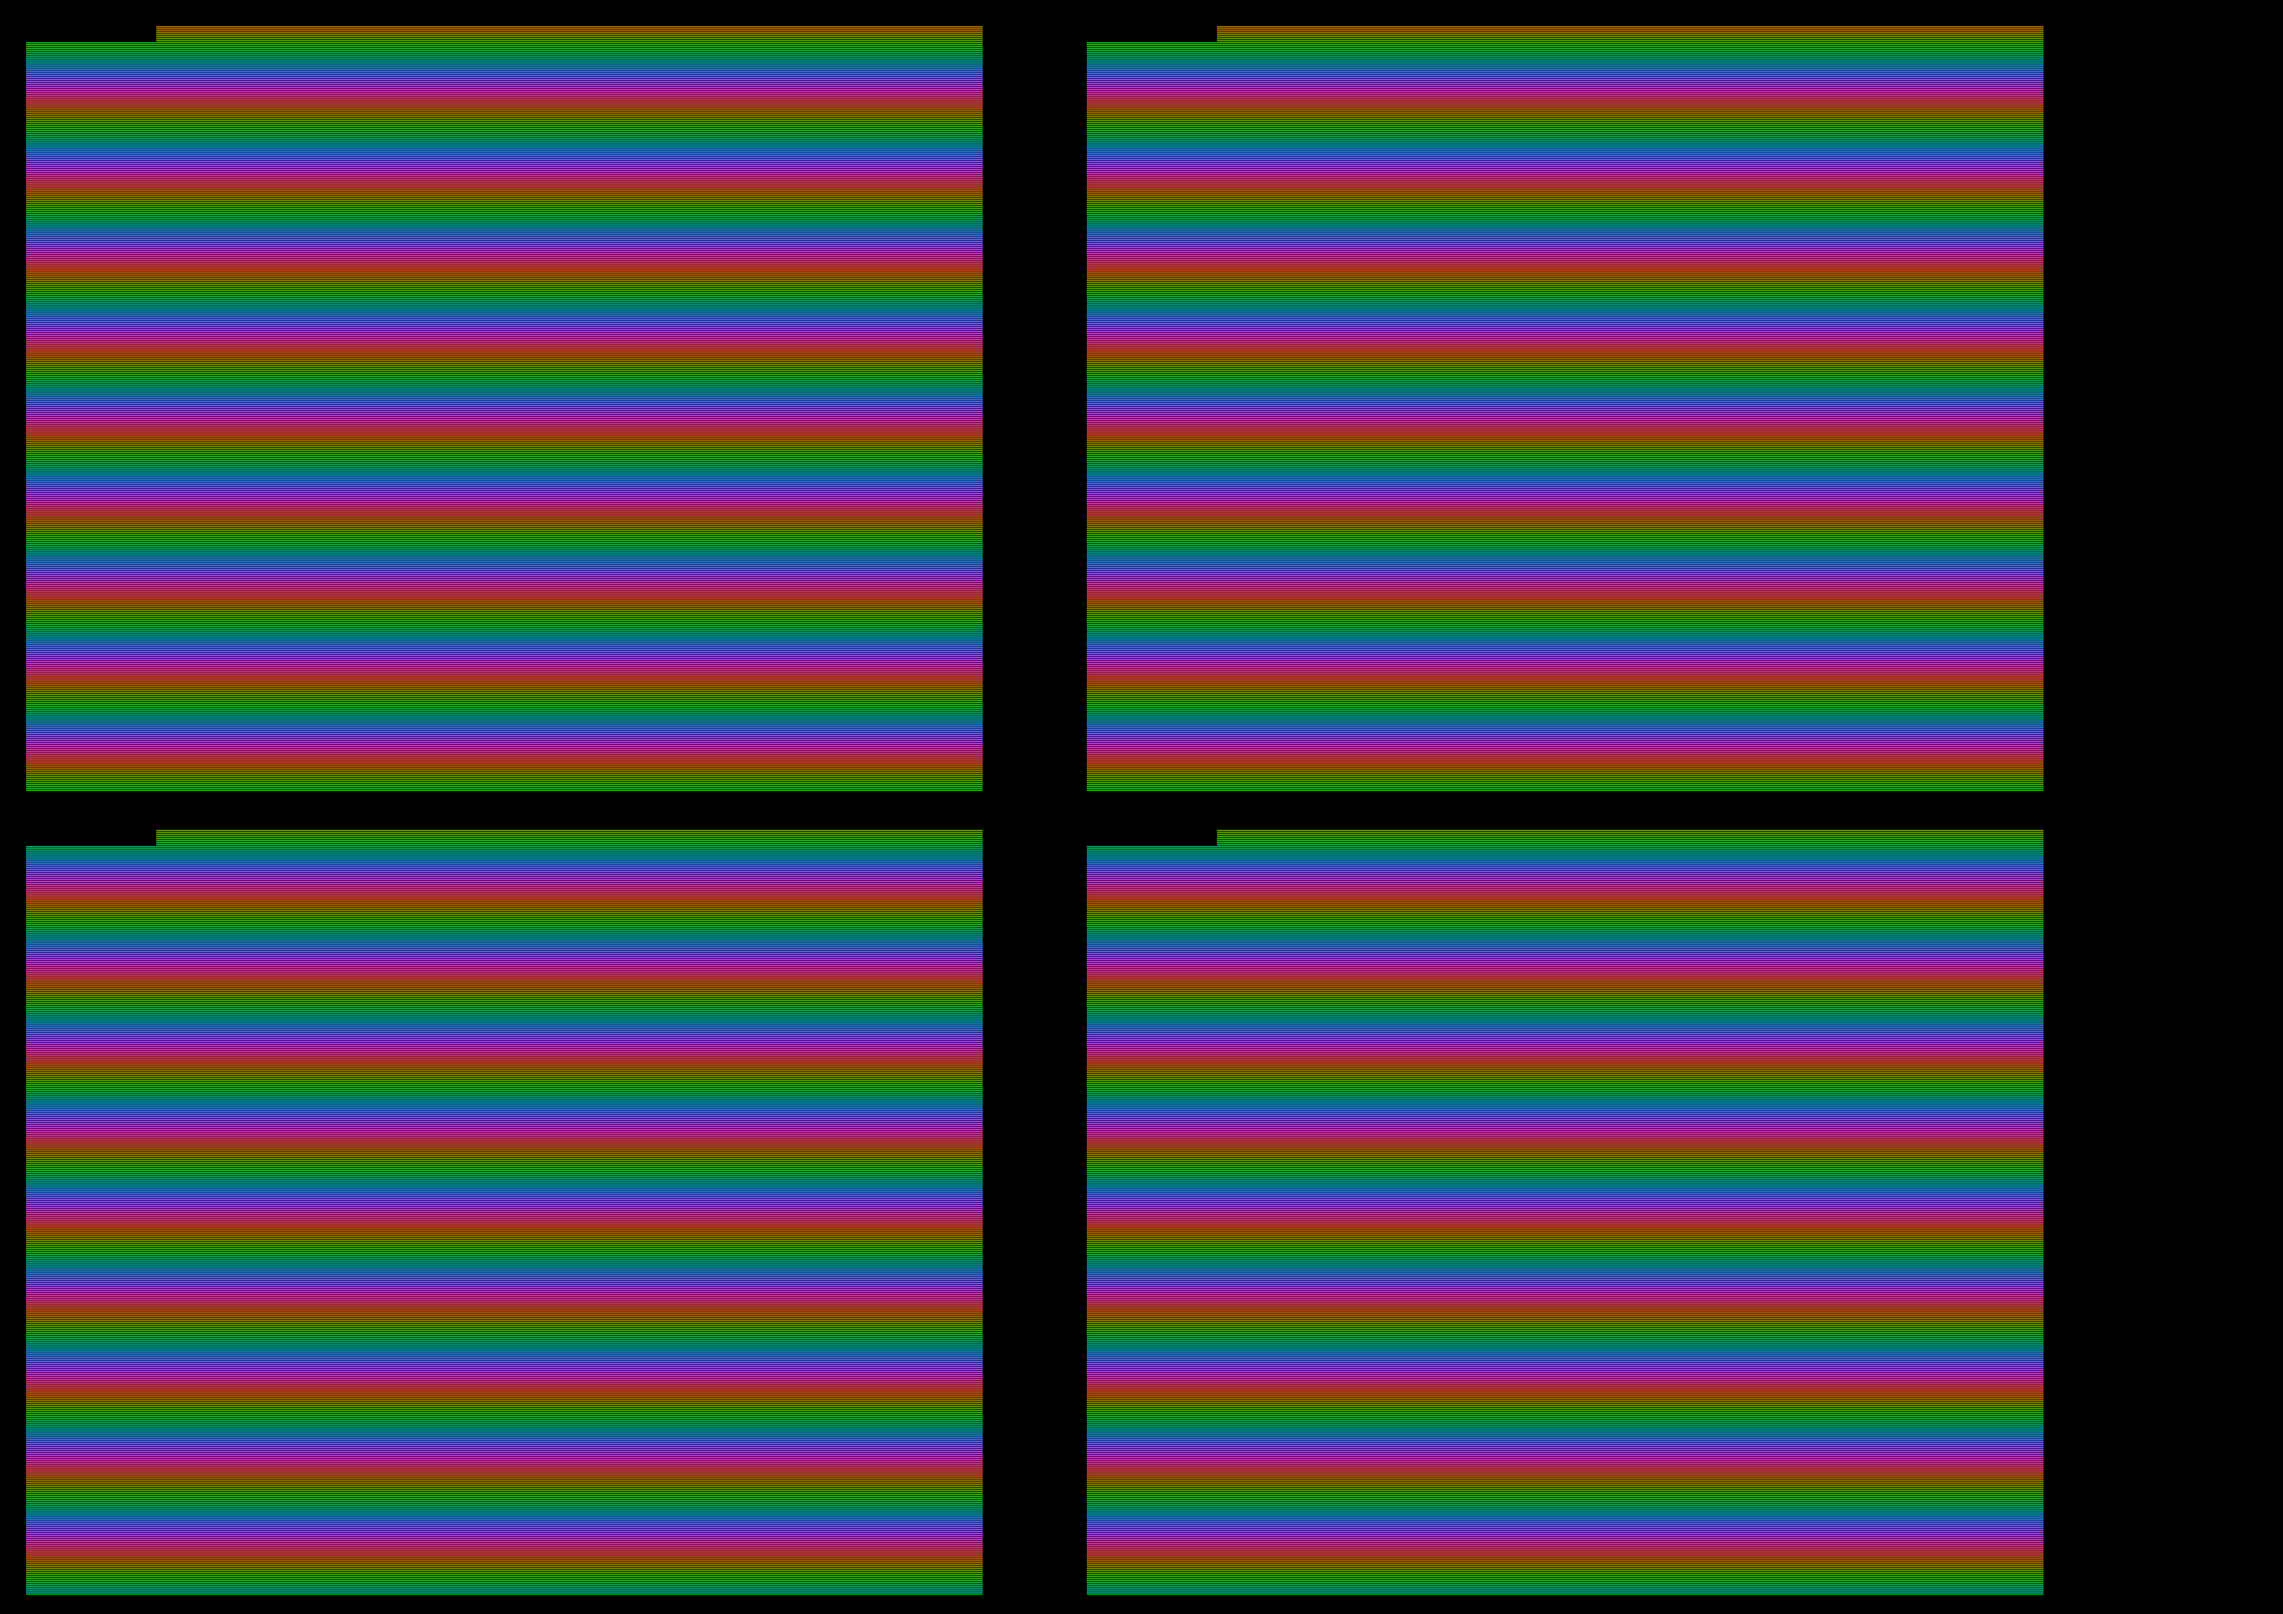
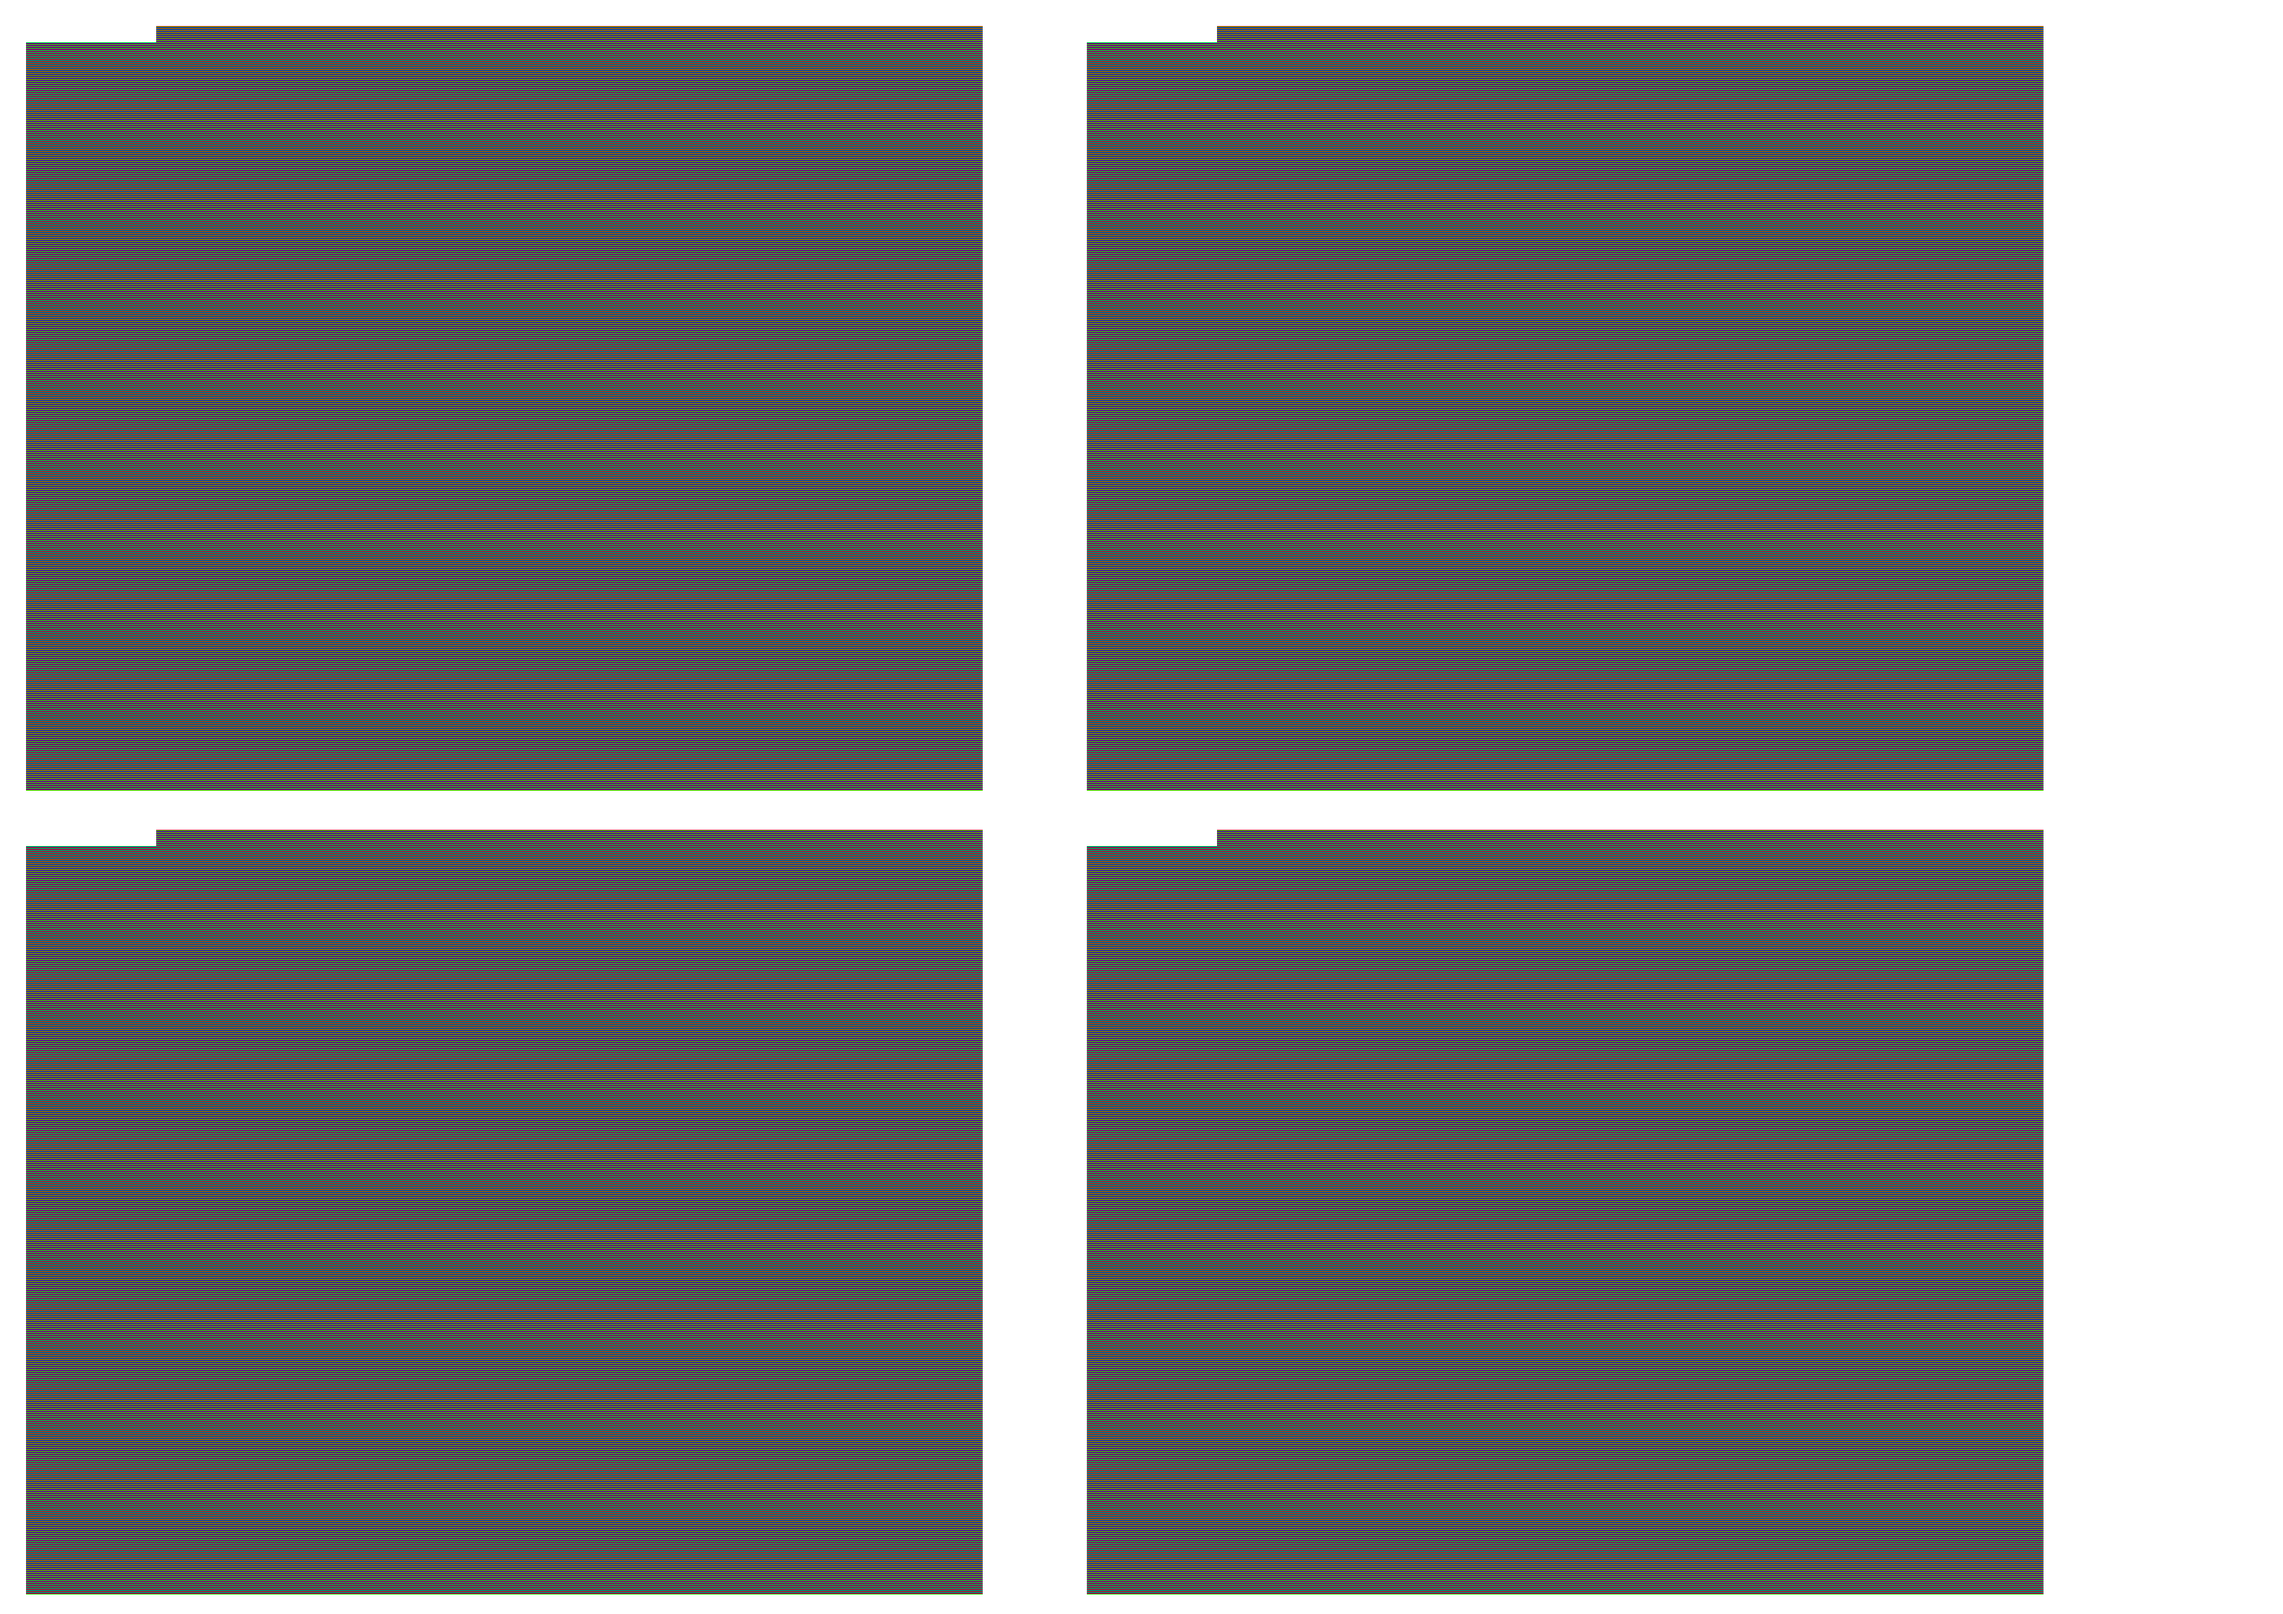
generates transparent image now

Changed region(s): [[0.0, 0.0, 1.0, 1.0]]

diff --git a/FilterGen/300DPIGen_Lines.py b/FilterGen/300DPIGen_Lines.py
@@ -10,38 +10,38 @@ def main():
     #Generate array
     img_w = 1470 #width
     img_h = 1175 #height
-    LineArray = np.zeros((img_h, img_w, 3), dtype=np.uint8) #create empty array for color matrix
+    LineArray = np.zeros((img_h, img_w, 4), dtype=np.uint8) #create empty array for color matrix
     j = 0 # initialize index
     for i in range(img_h):
         if j == 3: #restart index
             j = 0
         match j: # alternate color for rows
             case 0:
-                color = (250,0,0)
+                color = (250,0,0,255)
             case 1:
-                color = (0,250,0)
+                color = (0,250,0,255)
             case 2:
-                color = (0,0,250)
+                color = (0,0,250,255)
         LineArray[i] = color #set row to color
         j += 1 #step index
     #print(LineArray) #display resulting array
     #Add orientation markers
     mark_w = 200
     mark_h = 25
-    mark = np.zeros((mark_h, mark_w, 3), dtype=np.uint8)
+    mark = np.zeros((mark_h, mark_w, 4), dtype=np.uint8)
     LineArray[0:mark_h, 0:mark_w] = mark
     #Generate image
-    #im = Image.fromarray(LineArray, 'RGB')#.show() #turn to RGB image
-    #im.save('testLines.png')
+    im = Image.fromarray(LineArray, 'RGBA')#.show() #turn to RGB image
+    im.save('testLines.png')
     #Print paper generator
     A4_h = 2480
     A4_w = 3508
-    A4Array = np.zeros((A4_h, A4_w, 3), dtype=np.uint8)
+    A4Array = np.zeros((A4_h, A4_w, 4), dtype=np.uint8)
     A4Array[40:img_h+40, 40:img_w+40] = LineArray
     A4Array[img_h+100:(2*img_h)+100, 40:img_w+40] = LineArray
     A4Array[40:img_h+40, img_w+200:(2*img_w)+200] = LineArray
     A4Array[img_h+100:(2*img_h)+100, img_w+200:(2*img_w)+200] = LineArray
-    im = Image.fromarray(A4Array, 'RGB')#.show() #turn to RGB image
+    im = Image.fromarray(A4Array, 'RGBA')#.show() #turn to RGB image
     im.save('testLines_Print.png')
 if __name__ == "__main__":
     main()
